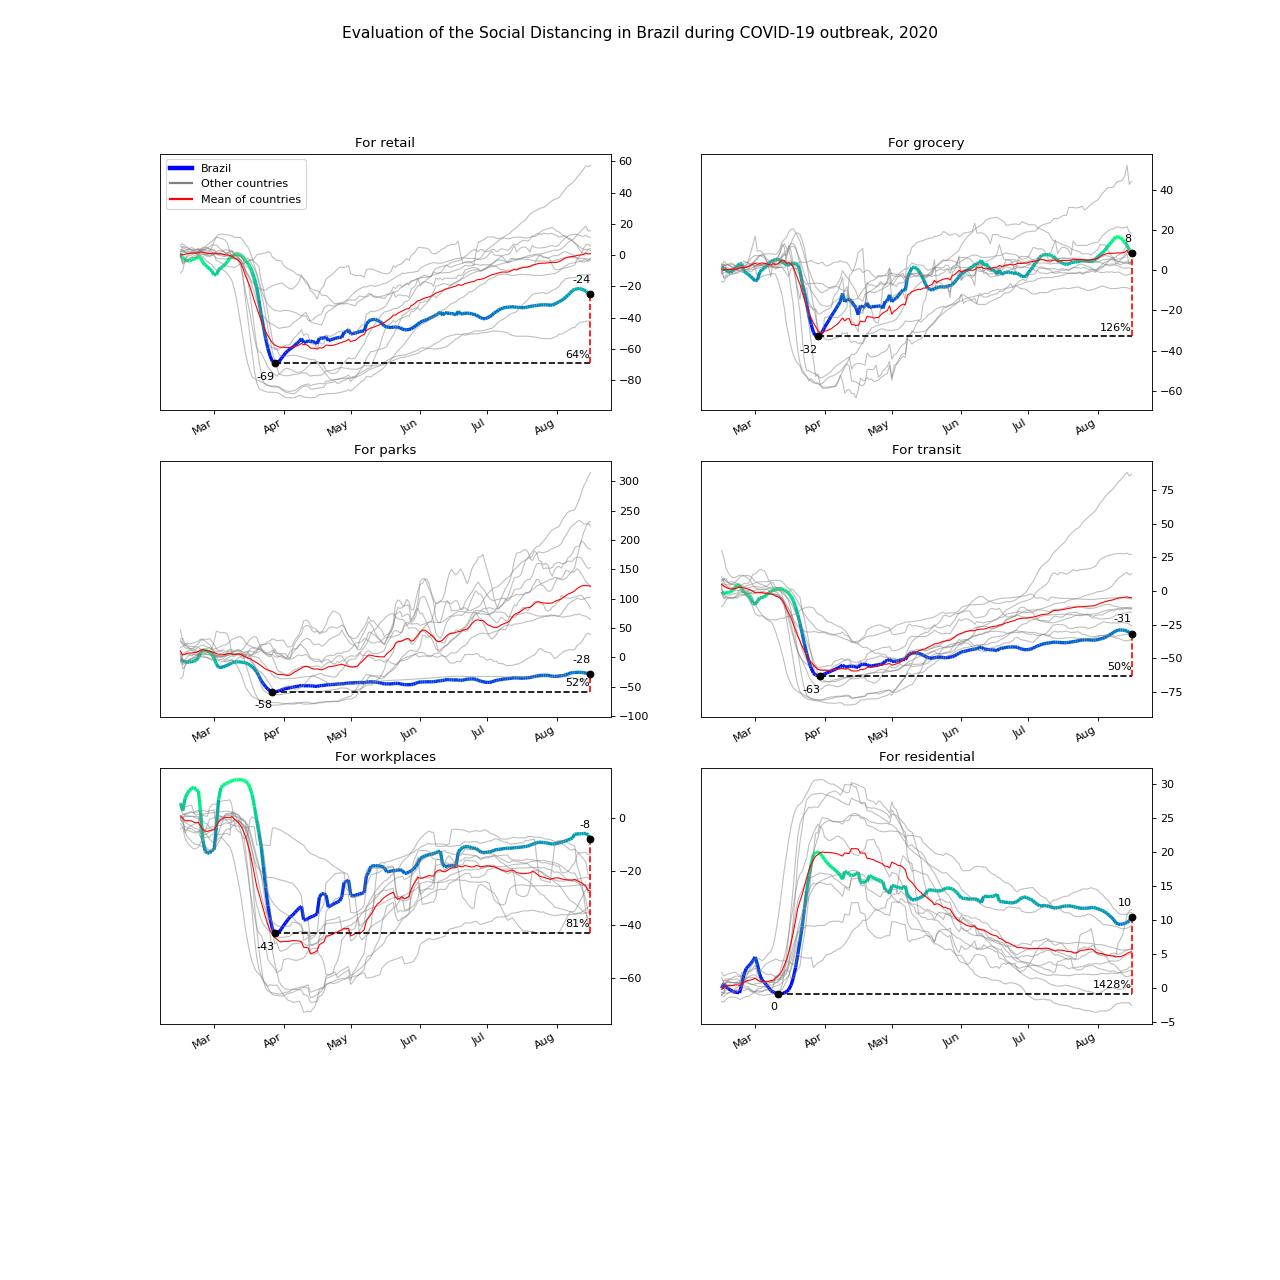
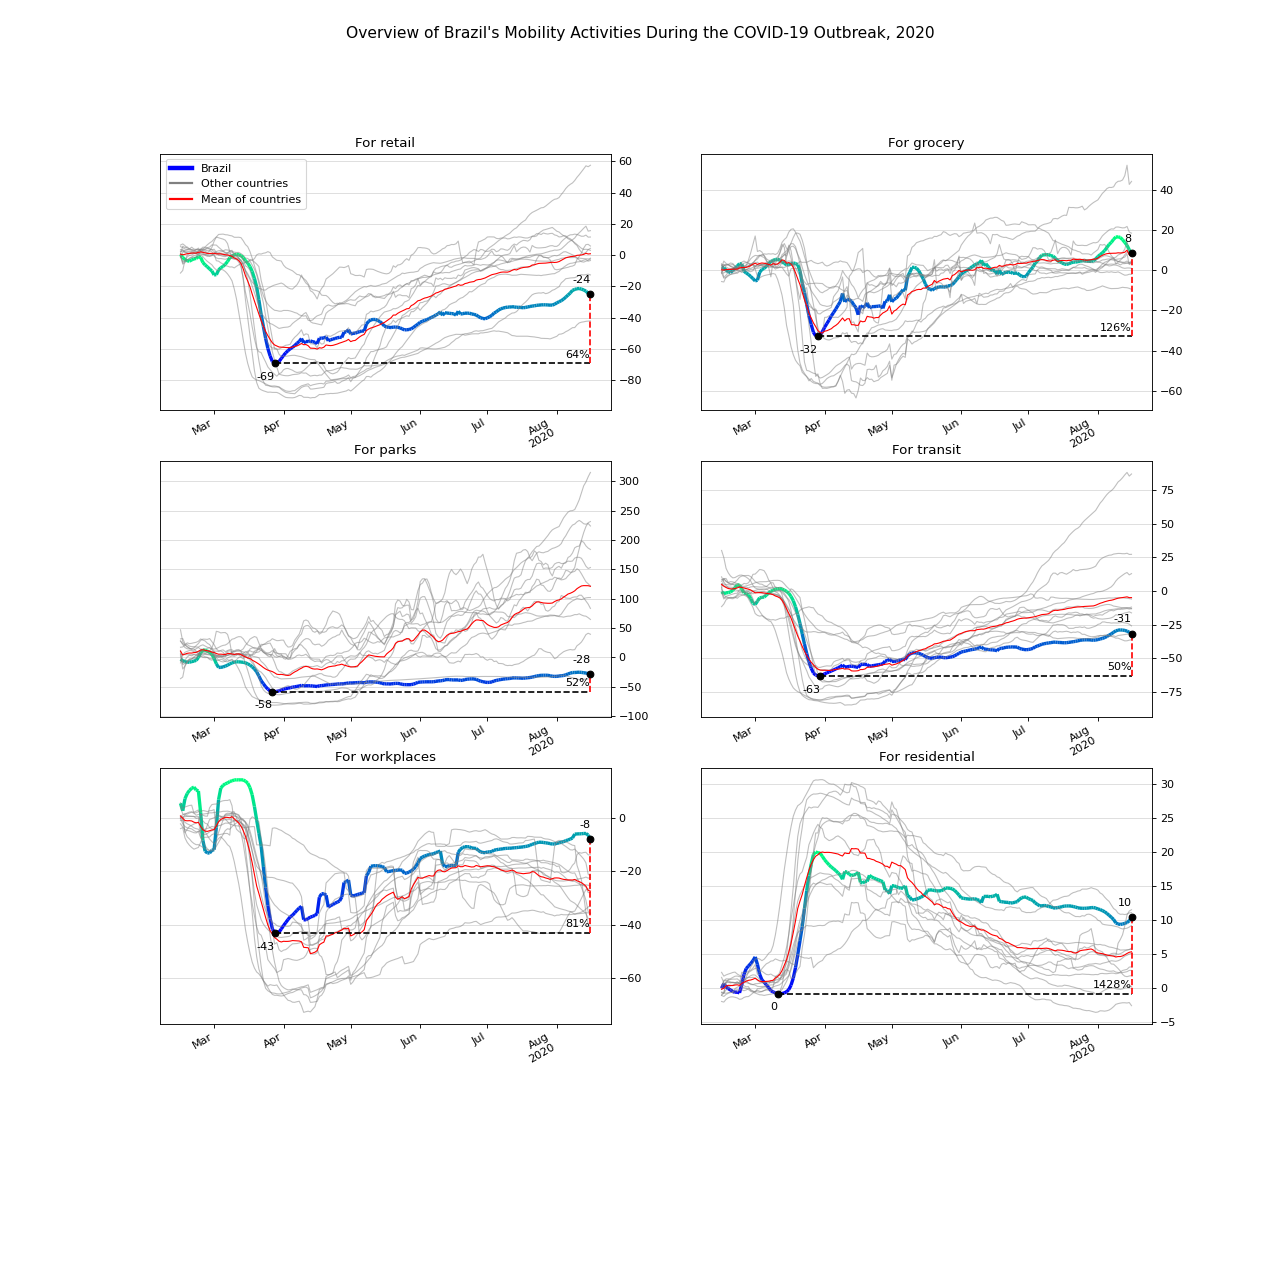
:sparkles: Adds 2020 to last xtick of subplots

diff --git a/evaluator.py b/evaluator.py
@@ -42,7 +42,6 @@ import matplotlib.dates as mdates
 input = "https://www.gstatic.com/covid19/mobility/Global_Mobility_Report.csv"
 
 data = pd.read_csv(input)
-pandas_profiling.ProfileReport(data)
 
 # ---------------
 
@@ -90,6 +89,8 @@ for i, item_arr in enumerate(items):
     monthFmt = mdates.DateFormatter("%b")
     ax[i][j].xaxis.set_major_formatter(monthFmt)
 
+    fig.canvas.draw()
+
     all_countries_means.plot(legend=False, color="red", linewidth=1, alpha=1, ax=ax[i][j])
 
     min_point_id = brazil.idxmin()
@@ -134,7 +135,11 @@ for i, item_arr in enumerate(items):
                         Line2D([0], [0], color='red', lw=2, label='Mean of countries')]
       ax[i][j].legend(handles=legend_elements, loc='upper left')
 
-fig.suptitle("Evaluation of the Mobility in Brazil during COVID-19 outbreak, 2020", fontsize=14)
-plt.savefig("data/brazil_covid19_evaluation.png", dpi=dpi)
+    labels = [item.get_text() for item in ax[i][j].get_xticklabels()]
+    labels[-1] = labels[-1] + "\n2020"
+    ax[i][j].set_xticklabels(labels)
+
+fig.suptitle("Overview of Brazil's Mobility Activities During the COVID-19 Outbreak, 2020", fontsize=14)
+plt.savefig("data/brazil_covid19_evaluation.png", dpi=dpi)#, bbox_inches='tight')
 
 # ---------------

diff --git a/README.md b/README.md
@@ -49,7 +49,7 @@ Initial requirements:
 * Pip
 
 ```sh
-pip install -r requirements.txt
+python3 -m pip install -r requirements.txt
 python3 evaluator.py
 ```
 
